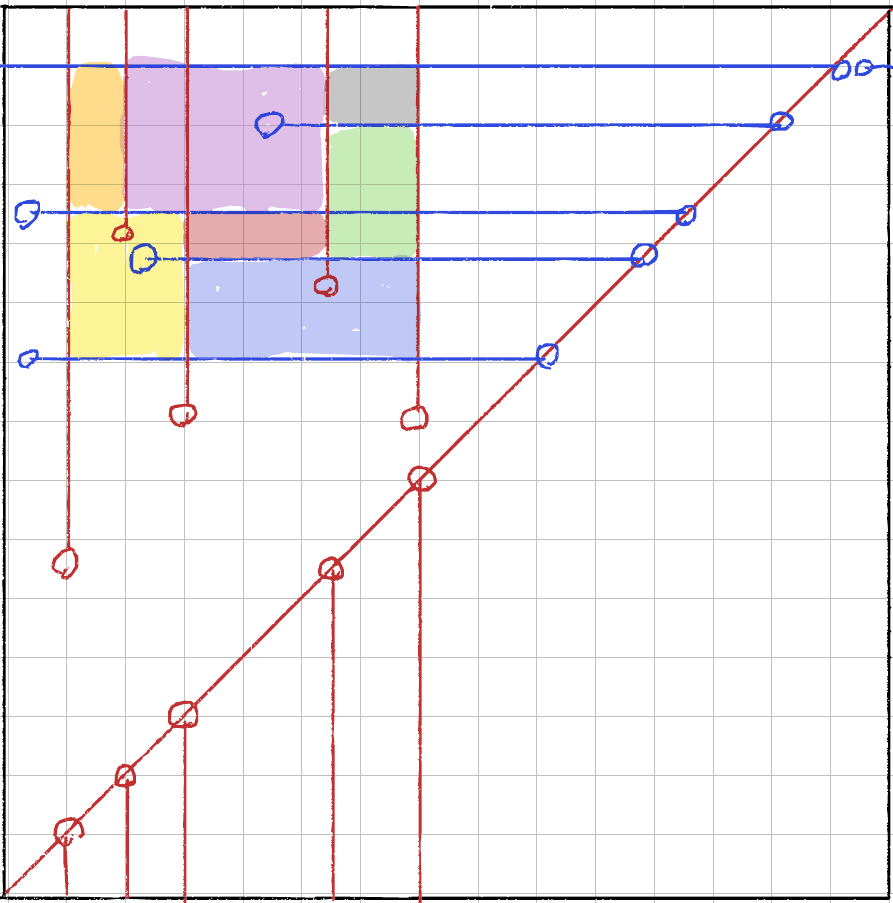
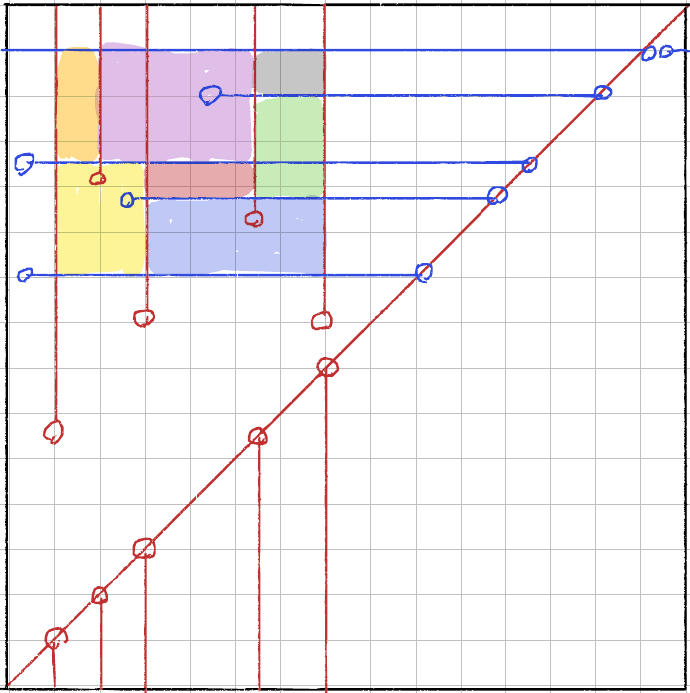
Finish proof of side-by-side additivity

diff --git a/boxes.tex b/boxes.tex
@@ -995,16 +995,39 @@ all the way back to the diagonal.
   smaller boxes can be further refined into smaller boxes $B_j'$ so
   that $B_0$ and each $B_i$ can be written as a side-by-side union of
   the $B_j'$.
+
+  Consider the pattern of whiskers that appear as an edge of $B_0$ or
+  any of the $B_i$ (as on the left of
+  Figure~\ref{fig:finite-additivity}), and add to it sufficiently many
+  long vertical whiskers (guaranteed by Lemma~\ref{lem:diagonaldense})
+  for the following to hold. Divide the vertical whiskers into
+  ``short'' whiskers, with endpoint in the interior of $B_0$, and
+  ``long'' ones, extending the full height of $B_0$. The long vertical
+  whiskers divide $B_0$ into vertical strips. Make sure that in each
+  such strip there is the end of any short whisker (horizontal or
+  vertical), as on the right of Figure~\ref{fig:finite-additivity}.
+  Now define the $B_j'$ to be the minimal boxes you can make from this
+  new collection. Each individual vertical strip is now standard (in
+  one of two forms, depending on whether or not it contains an end of
+  a short vertical whisker), and can easily be assembled by
+  side-by-side additivity. Then all the vertical strips can be
+  assembled to form $B_0$, showing that $\mu_f(B_0)$ is the sum of all
+  $\mu_f(B_j')$.
+
+  If we restrict to the $B_j'$ contained in any individual $B_i$, the
+  whiskers we have added divide it satisfying the same restrictions,
+  so they can also be assembled by side-by-side additivity.
 \end{proof}
 
 \begin{figure}
   \[
     \mathcenter{\includegraphics[height=2in,angle=180]{finite-additive-1}}
     \qquad\leadsto\qquad
-    \mathcenter{\includegraphics[height=0.85in,angle=180]{finite-additive-2}}
+    \mathcenter{\includegraphics[height=1.25in,angle=180]{finite-additive-2}}
   \]
   \caption{Finite additivity of $\mu_f$. By refinement, we can turn an
-    arbitrary division into boxes into one that is side-by-side decomposable.}
+    arbitrary division of a large box into smaller boxes into one that
+    is side-by-side decomposable.}
   \label{fig:finite-additivity}
 \end{figure}
 
